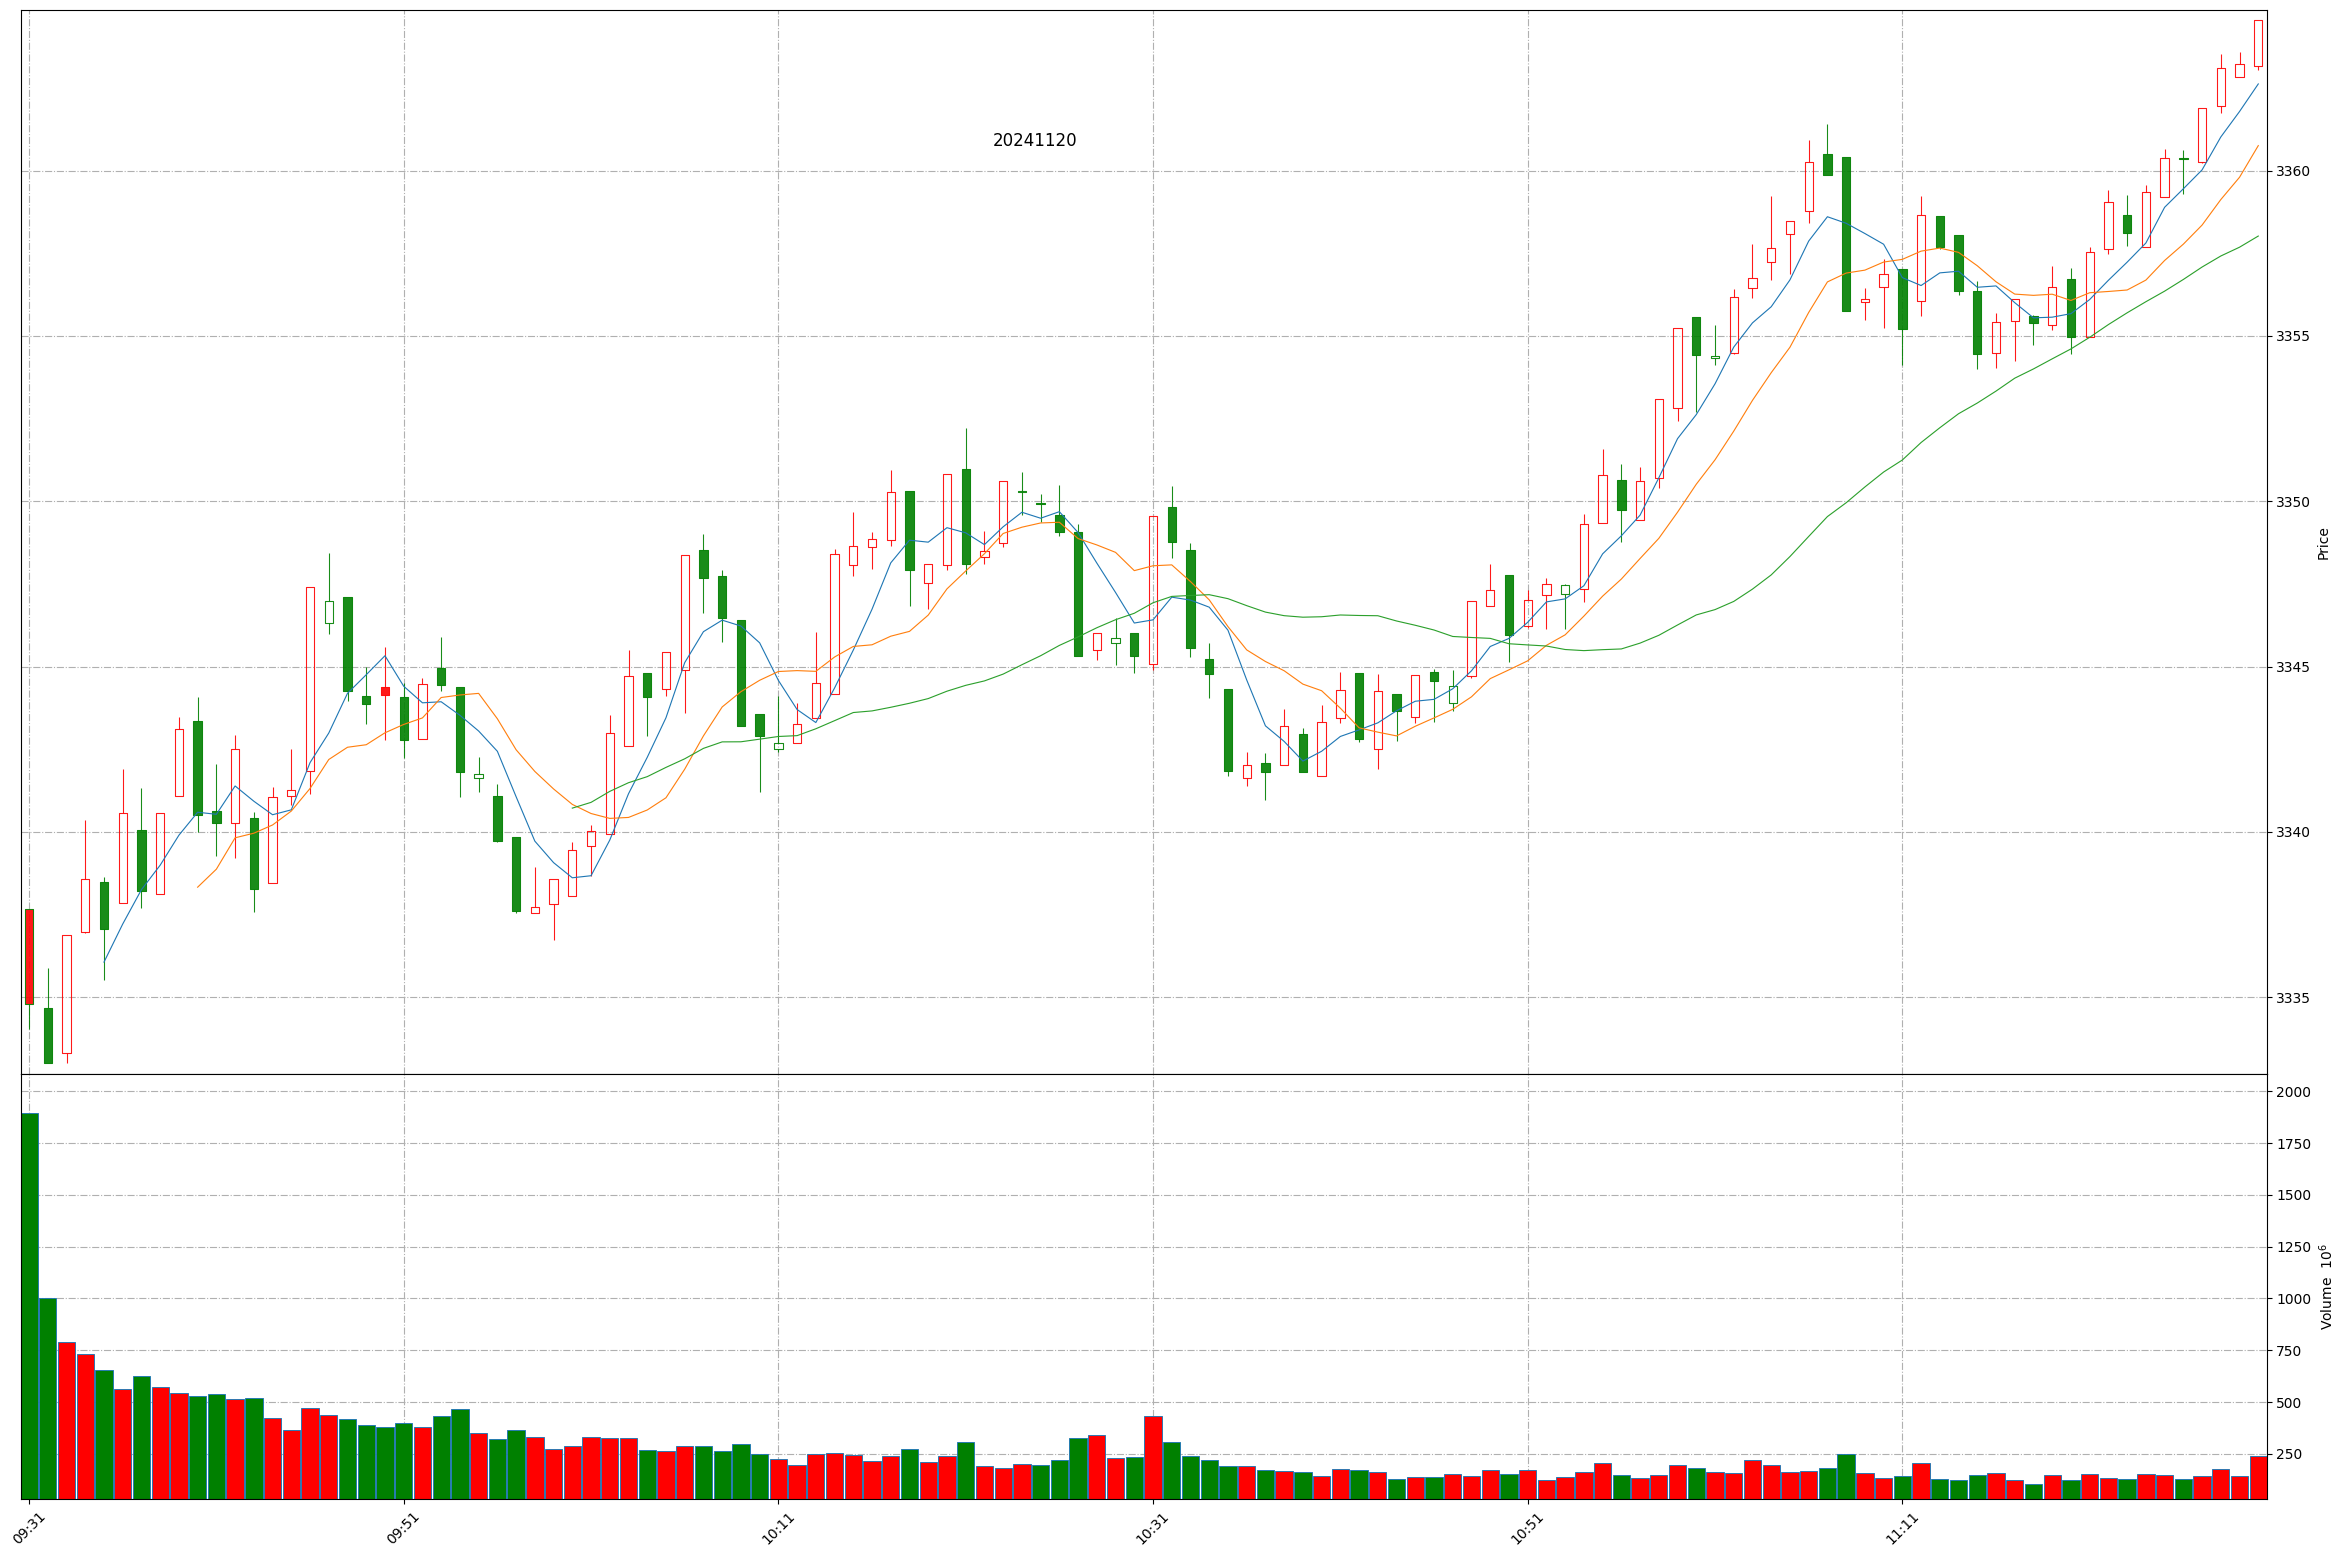
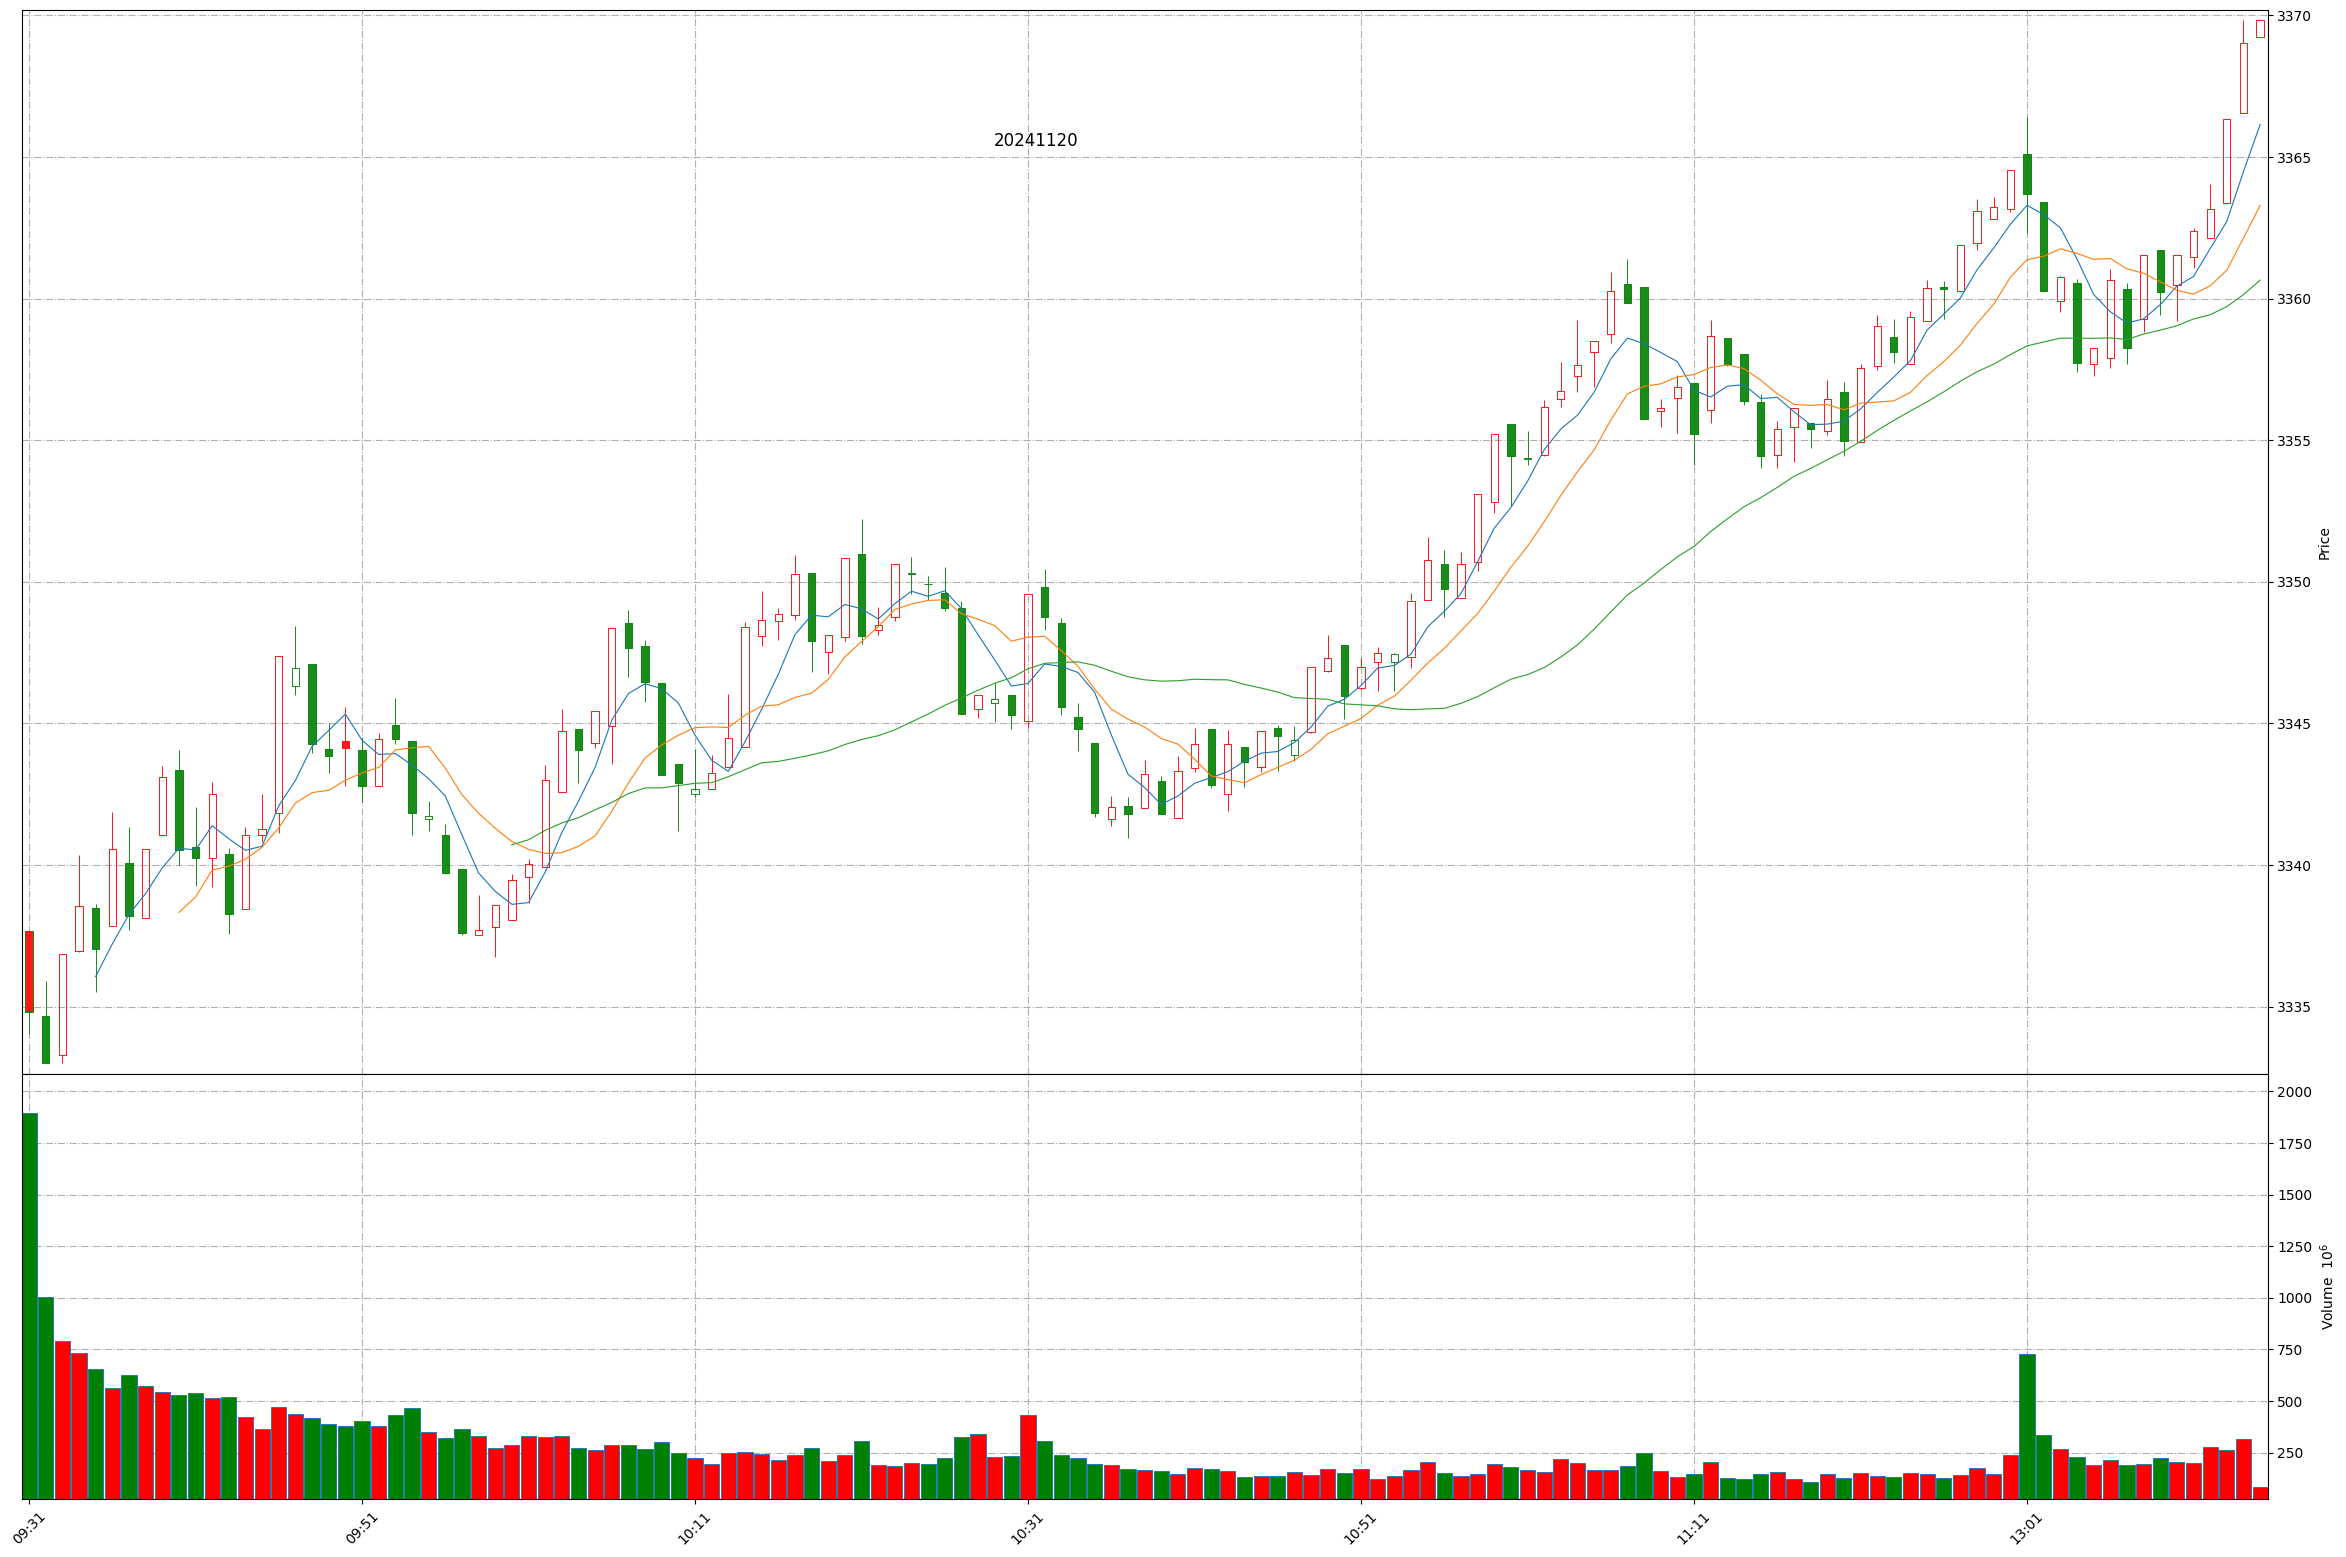
Github action update at 2024-11-20 13:14:33.

diff --git a/README.md b/README.md
@@ -1,11 +1,11 @@
 
 # Daily-A-share-market-quotes 每日 A 股指数（5min 更新）- 20241120
 
-### 上证指数 20241120 11:47
+### 上证指数 20241120 13:14
 ![](./fig/2024/11/20241120-sh000001.png)
 
-### 深证成指 20241120 11:47
+### 深证成指 20241120 13:14
 ![](./fig/2024/11/20241120-sz399001.png)
 
-### 北证50 20241120 11:47
+### 北证50 20241120 13:14
 ![](./fig/2024/11/20241120-bj899050.png)
